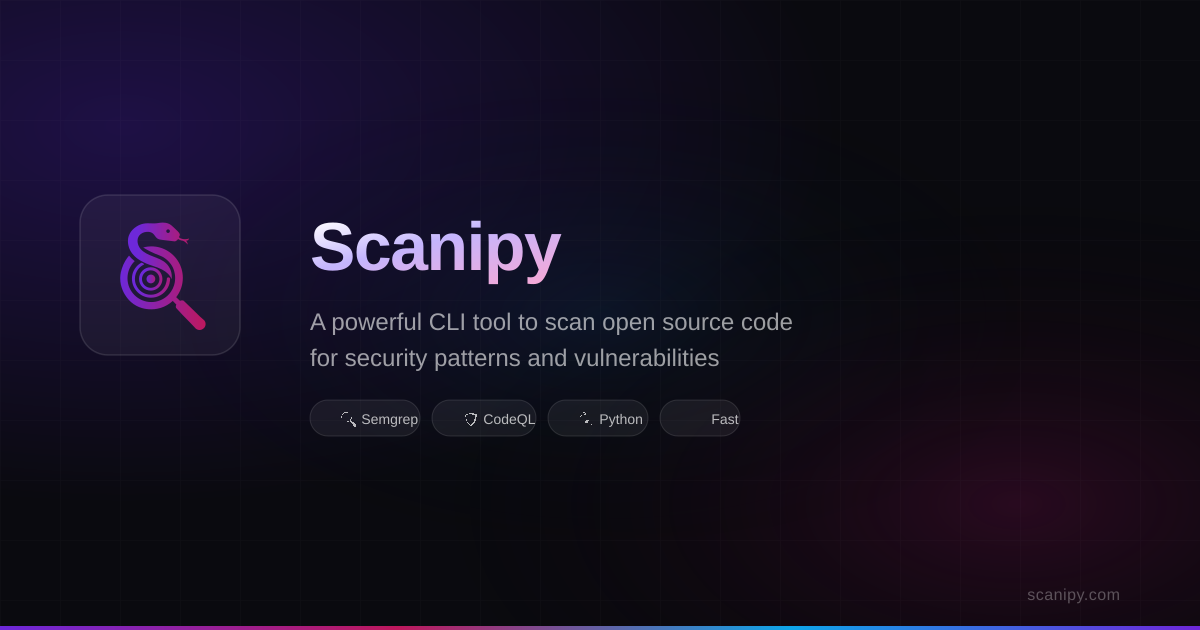
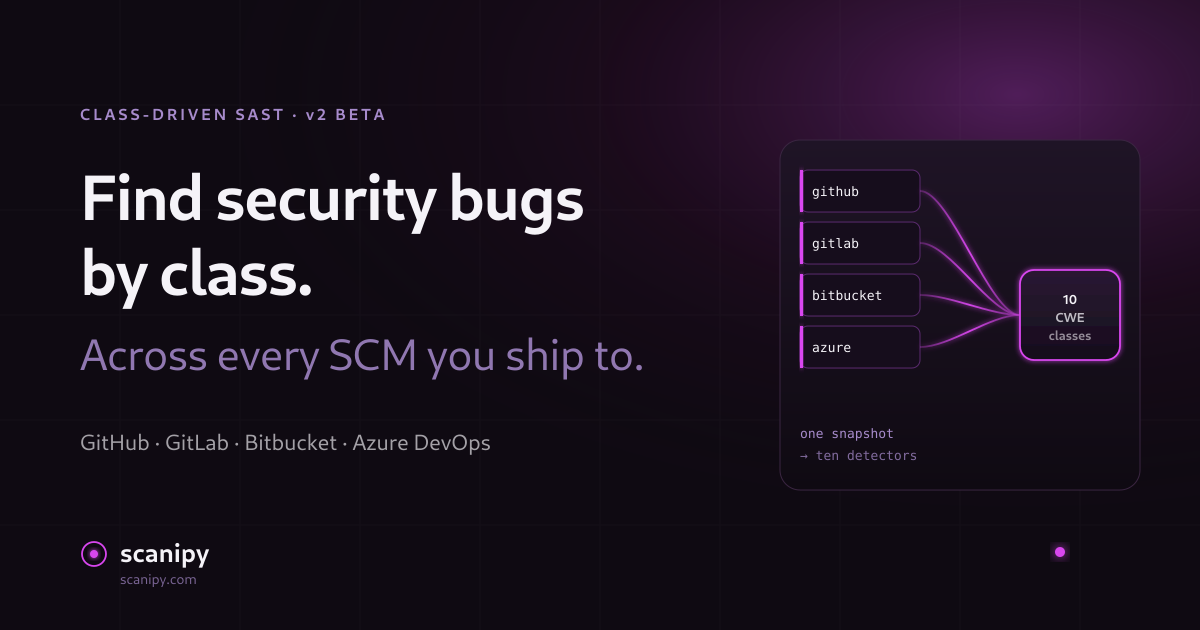
chore(content): replace OG image, drop every em-dash from source
Two operator asks on PR #4:

1. The link preview image was still the v0.app-era card. Replaced
   public/og-image.png with a 1200x630 PNG rendered from a hand-crafted
   SVG via rsvg-convert. Carries the new tagline ("Find security bugs
   by class. Across every SCM you ship to."), the brand wordmark, and a
   small magenta-glowing pipeline graphic. Tried Canva first; both
   facebook_cover candidates shipped with template chrome and a typo'd
   diagram label, so a hand-crafted SVG was the cleaner path.

2. Removed every em-dash (Unicode — and &mdash; entity) from
   marketing pages, components, lib comments, and metadata. Replacements
   used context-appropriate substitutes: middot (dot operator) in page
   titles, comma in flowing sentences, colon in label/value pairs,
   sentence split where the appositive was already its own thought.
   Audit on built HTML: 0 em-dashes across out/index.html, out/cli.html,
   out/platform.html, out/detectors.html, out/pricing.html, and
   out/research.html.

diff --git a/components/dark-pipeline.tsx b/components/dark-pipeline.tsx
@@ -4,8 +4,8 @@
  * borders and connector lines, and bolder typography than the prior
  * outline-only diagram.
  *
- * Static (no animation) — the previous animated version was reported
- * as "not working." This visual relies on weight and contrast, not
+ * Static (no animation). The previous animated version was reported
+ * as "not working"; this visual relies on weight and contrast, not
  * motion, to read as a flow.
  *
  * Designed against a dark hero backdrop. The cards' gradient fills are
@@ -26,7 +26,7 @@ const DETECTORS_LEFT = ['path-traversal', 'memory-safety', 'injection', 'deseria
 const DETECTORS_RIGHT = ['ssrf', 'crypto-misuse', 'authn-authz', 'secrets']
 
 export function DarkPipeline({ className = '' }: { className?: string }) {
-  // Layout constants — single source for nudging proportions later.
+  // Layout constants: single source for nudging proportions later.
   const VB_W = 1100
   const VB_H = 640
 
@@ -73,7 +73,7 @@ export function DarkPipeline({ className = '' }: { className?: string }) {
         </desc>
 
         <defs>
-          {/* Gradient fill for every card — top-down, light to dark. */}
+          {/* Gradient fill for every card: top-down, light to dark. */}
           <linearGradient id="dp-card-fill" x1="0" y1="0" x2="0" y2="1">
             <stop offset="0%" stopColor="#1f1426" />
             <stop offset="100%" stopColor="#0f0a12" />
@@ -89,12 +89,12 @@ export function DarkPipeline({ className = '' }: { className?: string }) {
             <stop offset="50%" stopColor="#d946ef" stopOpacity="0.9" />
             <stop offset="100%" stopColor="#d946ef" stopOpacity="0.25" />
           </linearGradient>
-          {/* Subtle radial under the central node — depth cue. */}
+          {/* Subtle radial under the central node: depth cue. */}
           <radialGradient id="dp-snap-glow" cx="0.5" cy="0.5" r="0.6">
             <stop offset="0%" stopColor="#d946ef" stopOpacity="0.18" />
             <stop offset="100%" stopColor="#d946ef" stopOpacity="0" />
           </radialGradient>
-          {/* Glow filter — small Gaussian blur merged behind the source. */}
+          {/* Glow filter: small Gaussian blur merged behind the source. */}
           <filter id="dp-glow" x="-30%" y="-30%" width="160%" height="160%">
             <feGaussianBlur stdDeviation="2.4" result="blur" />
             <feMerge>
@@ -174,7 +174,7 @@ export function DarkPipeline({ className = '' }: { className?: string }) {
                 stroke="#3a2541"
                 strokeWidth="1"
               />
-              {/* Glow accent on left edge — small magenta bar */}
+              {/* Glow accent on left edge: small magenta bar */}
               <rect
                 x={SCM_X}
                 y={y + 14}
@@ -264,7 +264,7 @@ export function DarkPipeline({ className = '' }: { className?: string }) {
           </text>
         </g>
 
-        {/* Detector pool — outer container */}
+        {/* Detector pool: outer container */}
         <g>
           <rect
             x={POOL_X}

diff --git a/app/pricing/page.tsx b/app/pricing/page.tsx
@@ -5,7 +5,7 @@ import { DemoCTA } from '@/components/demo-cta'
 import { Check } from 'lucide-react'
 
 export const metadata = {
-  title: 'Pricing — Scanipy',
+  title: 'Pricing · Scanipy',
   description:
     'Scanipy pricing: a single design-partner tier today, scoped per codebase and per detector class. Open-source CLI is and will remain free.',
 }
@@ -14,7 +14,7 @@ const PARTNER_INCLUDES = [
   'Unlimited scans across enabled detector classes',
   'All four SCM connectors: GitHub, GitLab, Bitbucket, Azure DevOps',
   'Dedicated onboarding and a Slack channel with the team',
-  'Roadmap input — your CWE classes get prioritised',
+  'Roadmap input: your CWE classes get prioritised',
   'Stable-fingerprint baselines, suppression, audit trail',
 ]
 
@@ -58,7 +58,7 @@ export default function PricingPage() {
                 Design partner
               </div>
               <h2 className="text-2xl font-semibold text-foreground tracking-tight mb-2">
-                Platform &mdash; design partner tier
+                Platform · design partner tier
               </h2>
               <p className="text-foreground/65 mb-6 leading-relaxed">
                 Pricing is a flat monthly retainer scoped to your
@@ -127,8 +127,8 @@ export default function PricingPage() {
           <div className="space-y-6 text-foreground/75 leading-relaxed">
             <p>
               <strong className="text-foreground">No per-finding pricing.</strong>{' '}
-              Charging per finding aligns the wrong incentives &mdash;
-              it pushes the platform towards more findings, not better
+              Charging per finding aligns the wrong incentives. It
+              pushes the platform towards more findings, not better
               ones.
             </p>
             <p>
@@ -140,7 +140,7 @@ export default function PricingPage() {
               <strong className="text-foreground">No locking the CLI behind a paywall.</strong>{' '}
               The CLI is and will remain MIT. The platform offers things
               the CLI can&rsquo;t (multi-SCM, multi-tenant, shared
-              snapshots) &mdash; the split is genuine, not artificial.
+              snapshots), so the split is genuine, not artificial.
             </p>
           </div>
         </section>

diff --git a/components/how-it-works.tsx b/components/how-it-works.tsx
@@ -2,12 +2,12 @@ import { SectionEyebrow } from '@/components/section-eyebrow'
 import { GitMerge, Database, Cpu, Fingerprint } from 'lucide-react'
 
 /**
- * "How it works" — four-stage horizontal stepper. Distinct from the
+ * "How it works": four-stage horizontal stepper. Distinct from the
  * hero's DarkPipeline (which shows the data flow at the architectural
  * level); this section is the *user* journey from connect to triage.
  *
- * Connector lines (the dashed path between cards) draw on desktop only
- * — they degrade to nothing on mobile so the column stack reads cleanly.
+ * Connector lines (the dashed path between cards) draw on desktop only;
+ * they degrade to nothing on mobile so the column stack reads cleanly.
  */
 
 const STAGES: Array<{
@@ -31,7 +31,7 @@ const STAGES: Array<{
   {
     n: '03',
     title: 'Scan',
-    body: 'Fan out to enabled detectors in parallel. Each detector is class-specific — its own rules, its own taint specs.',
+    body: 'Fan out to enabled detectors in parallel. Each detector is class-specific, with its own rules and its own taint specs.',
     icon: Cpu,
   },
   {
@@ -52,13 +52,13 @@ export function HowItWorks() {
         </h2>
         <p className="mt-4 text-foreground/70 leading-relaxed">
           From the first webhook to the first finding in the dashboard,
-          four stages — every one of them auditable, deterministic, and
+          four stages, every one of them auditable, deterministic, and
           replayable on demand.
         </p>
       </div>
 
       <div className="relative">
-        {/* Dashed connector — desktop only. Sits behind the cards. */}
+        {/* Dashed connector: desktop only. Sits behind the cards. */}
         <div
           aria-hidden
           className="hidden lg:block absolute top-12 left-[12.5%] right-[12.5%] h-px border-t-2 border-dashed border-border/60"

diff --git a/app/platform/page.tsx b/app/platform/page.tsx
@@ -6,7 +6,7 @@ import { DarkPipeline } from '@/components/dark-pipeline'
 import { Layers, GitBranch, Shield } from 'lucide-react'
 
 export const metadata = {
-  title: 'Platform — Scanipy',
+  title: 'Platform · Scanipy',
   description:
     'The Scanipy platform: one snapshot per commit, fanned out to class-specific detectors, written into a single findings store with stable fingerprints. Multi-SCM, multi-tenant, deterministic by default.',
 }
@@ -54,7 +54,7 @@ export default function PlatformPage() {
               <p className="text-foreground/70 leading-relaxed">
                 The snapshotter clones, builds the graph, and writes the
                 CodeQL DBs once per (codebase, commit). Every detector in
-                the pool reads the same artefacts &mdash; adding a new
+                the pool reads the same artefacts, so adding a new
                 class costs zero re-clones, zero re-parses.
               </p>
             </article>
@@ -66,8 +66,8 @@ export default function PlatformPage() {
               <p className="text-foreground/70 leading-relaxed">
                 Each detector is a manifest plus a rule set plus the
                 source/sink models for one CWE class. The worker reads
-                the manifest and runs the right tool &mdash; Semgrep,
-                CodeQL, or a hybrid &mdash; per class.
+                the manifest and runs the right tool (Semgrep,
+                CodeQL, or a hybrid) per class.
               </p>
             </article>
             <article>
@@ -77,7 +77,7 @@ export default function PlatformPage() {
               </h2>
               <p className="text-foreground/70 leading-relaxed">
                 One contract, four providers. Webhook verification,
-                clone, ref resolution, repo listing &mdash; the same
+                clone, ref resolution, repo listing: the same
                 surface for GitHub, GitLab, Bitbucket, and Azure DevOps,
                 cloud or self-hosted.
               </p>

diff --git a/app/research/page.tsx b/app/research/page.tsx
@@ -13,7 +13,7 @@ export const metadata = {
 /**
  * The credibility document. Five references rendered as a long-form
  * bibliography. No CTA, no chrome beyond `<SiteNav />` and `<SiteFooter />`.
- * Linked only from the footer — never from the homepage hero or body.
+ * Linked only from the footer (never from the homepage hero or body).
  */
 export default function ResearchPage() {
   const items = Object.values(citations)
@@ -31,9 +31,9 @@ export default function ResearchPage() {
             Scanipy&rsquo;s architecture borrows from a small set of
             published works in program analysis and applied security
             research. We list them here so the technical claims on the
-            rest of the site &mdash; class-specific detection, one-graph
-            snapshots, deterministic fingerprints, LLM-augmented triage
-            &mdash; are verifiable against their sources.
+            rest of the site (class-specific detection, one-graph
+            snapshots, deterministic fingerprints, LLM-augmented
+            triage) are verifiable against their sources.
           </p>
 
           <ol className="mt-14 space-y-10 list-none">
@@ -46,7 +46,7 @@ export default function ResearchPage() {
                   {c.oneLineGist}
                 </p>
                 <p className="text-sm text-foreground/55 leading-relaxed">
-                  {c.authors} &mdash;{' '}
+                  {c.authors}.{' '}
                   <Link
                     href={c.url}
                     target="_blank"

diff --git a/app/cli/page.tsx b/app/cli/page.tsx
@@ -7,7 +7,7 @@ import { SarifExcerpt } from '@/components/sarif-excerpt'
 import { getRepoProof, repoUrl } from '@/lib/proof'
 
 export const metadata = {
-  title: 'Scanipy CLI — research-mode security scanner for OSS CVE hunting',
+  title: 'Scanipy CLI · research-mode security scanner for OSS CVE hunting',
   description:
     'The Scanipy CLI is free, MIT, and built for OSS CVE hunting. Tiered-star GitHub search, Semgrep + local CodeQL. Same class-specific philosophy as the platform.',
 }
@@ -32,7 +32,7 @@ export default async function CliPage() {
               <p className="mt-6 text-lg text-foreground/70 leading-relaxed max-w-2xl">
                 Tiered-star GitHub code search, Semgrep, and local CodeQL,
                 wrapped as a single Python CLI. Same class-specific
-                philosophy as the platform &mdash; just packaged for one
+                philosophy as the platform, just packaged for one
                 researcher on one laptop.
               </p>
               <div className="mt-5">
@@ -100,7 +100,7 @@ export default async function CliPage() {
               Real proof.
             </h2>
             <p className="mt-4 text-foreground/70 leading-relaxed">
-              CVE-2025-61765 &mdash; <em>Unsafe Pickle Deserialization</em> in
+              CVE-2025-61765, <em>Unsafe Pickle Deserialization</em> in
               the{' '}
               <Link
                 href="https://github.com/miguelgrinberg/python-socketio"

diff --git a/components/site-nav.tsx b/components/site-nav.tsx
@@ -17,7 +17,7 @@ import { DemoCTA } from '@/components/demo-cta'
 
 interface SiteNavProps {
   /**
-   * Reserved for backwards compatibility — the redesigned nav surfaces
+   * Reserved for backwards compatibility; the redesigned nav surfaces
    * Docs through the Resources dropdown on every page, so the prop is
    * accepted but no longer changes the desktop link set.
    */
@@ -77,7 +77,7 @@ const RESOURCE_LINKS: {
  * right. Mobile collapses everything into a sheet.
  *
  * `variant="on-dark"` is used on the `/` hero so the nav inherits the
- * dark band's surface — same component, different chrome.
+ * dark band's surface: same component, different chrome.
  */
 export function SiteNav({ variant = 'default' }: SiteNavProps) {
   const [mobileOpen, setMobileOpen] = useState(false)
@@ -121,7 +121,7 @@ export function SiteNav({ variant = 'default' }: SiteNavProps) {
             </Link>
           ))}
 
-          {/* Resources dropdown — group-hover/focus-within driven, no JS */}
+          {/* Resources dropdown: group-hover/focus-within driven, no JS */}
           <div className="relative group">
             <button
               type="button"

diff --git a/app/detectors/page.tsx b/app/detectors/page.tsx
@@ -5,7 +5,7 @@ import { DemoCTA } from '@/components/demo-cta'
 import { detectors } from '@/lib/detectors'
 
 export const metadata = {
-  title: 'Detectors — Scanipy',
+  title: 'Detectors · Scanipy',
   description:
     'The full Scanipy detector catalog: ten vulnerability classes, two GA today, eight scaffolded with manifests and shipping content as it lands.',
 }
@@ -34,7 +34,7 @@ export default function DetectorsPage() {
             </h1>
             <p className="mt-6 text-lg text-white/70 leading-relaxed max-w-2xl">
               Scanipy is detector-driven, not engine-driven. Each class
-              is its own bundle &mdash; rules plus queries plus
+              is its own bundle: rules plus queries plus
               source/sink models. Roadmap classes have manifests today
               and ship content as it lands.
             </p>

diff --git a/app/page.tsx b/app/page.tsx
@@ -52,8 +52,8 @@ export default function Home() {
               </h1>
               <p className="mt-8 text-lg md:text-xl text-white/70 leading-relaxed max-w-2xl mx-auto">
                 Scanipy runs ten focused detectors against one snapshot
-                of your code &mdash; across GitHub, GitLab, Bitbucket,
-                and Azure DevOps. Findings carry stable fingerprints, so
+                of your code, across GitHub, GitLab, Bitbucket, and
+                Azure DevOps. Findings carry stable fingerprints, so
                 re-scans collapse onto the same row instead of
                 multiplying.
               </p>

diff --git a/components/citation.tsx b/components/citation.tsx
@@ -20,7 +20,7 @@ interface CitationProps {
  * link with `target="_blank"` and `rel="noopener noreferrer"`.
  *
  * Used by the `/research` bibliography page. Not used in marketing-page
- * body copy — those pages link to `/research` from the footer instead.
+ * body copy; those pages link to `/research` from the footer instead.
  */
 export function Citation({ id, showGist = true }: CitationProps) {
   const c = citations[id]
@@ -28,7 +28,7 @@ export function Citation({ id, showGist = true }: CitationProps) {
     <div className="text-xs text-foreground/55 leading-relaxed">
       {showGist && <p className="mb-1">{c.oneLineGist}</p>}
       <p>
-        {c.authors} —{' '}
+        {c.authors}.{' '}
         <Link
           href={c.url}
           target="_blank"

diff --git a/components/cve-callout.tsx b/components/cve-callout.tsx
@@ -3,7 +3,7 @@ import { ArrowUpRight } from 'lucide-react'
 import { SectionEyebrow } from '@/components/section-eyebrow'
 
 /**
- * The "in the wild" callout — a substitute for a customer testimonial
+ * The "in the wild" callout: a substitute for a customer testimonial
  * we don't have yet. Anchors the page in a real CVE the same engine
  * found, with credit to the researcher (locus-x64).
  */
@@ -38,7 +38,7 @@ export function CveCallout() {
             >
               python-socketio
             </Link>{' '}
-            with the same engine that powers the platform &mdash; an
+            with the same engine that powers the platform: an
             unsafe pickle deserialization that yields arbitrary Python
             RCE in certain multi-server deployments.
           </p>

diff --git a/lib/citations.ts b/lib/citations.ts
@@ -1,7 +1,7 @@
 /**
  * Single source of truth for the academic references the site cites.
  *
- * Five entries — five distinct references across the homepage. Adding
+ * Five entries: five distinct references across the homepage. Adding
  * a sixth pads the section and weakens the others; if a new reference
  * lands here, audit whether one of the existing five should retire.
  *
@@ -70,7 +70,7 @@ export const citations: Record<CitationId, Citation> = {
     year: 2021,
     url: 'https://mariana-tren.ch/',
     oneLineGist:
-      'Detectors ship as (rules + queries + source/sink models) — the Mariana Trench, Pysa, and FlowDroid pattern.',
+      'Detectors ship as (rules + queries + source/sink models): the Mariana Trench, Pysa, and FlowDroid pattern.',
   },
   'cwe-1000': {
     id: 'cwe-1000',